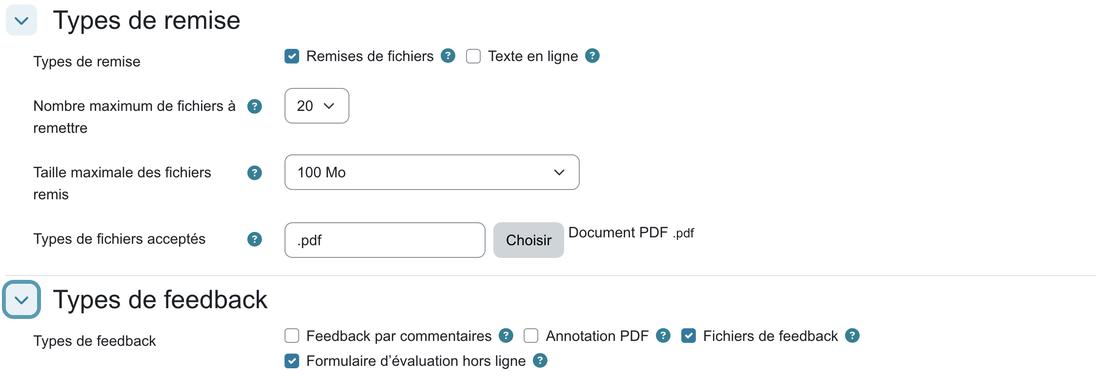
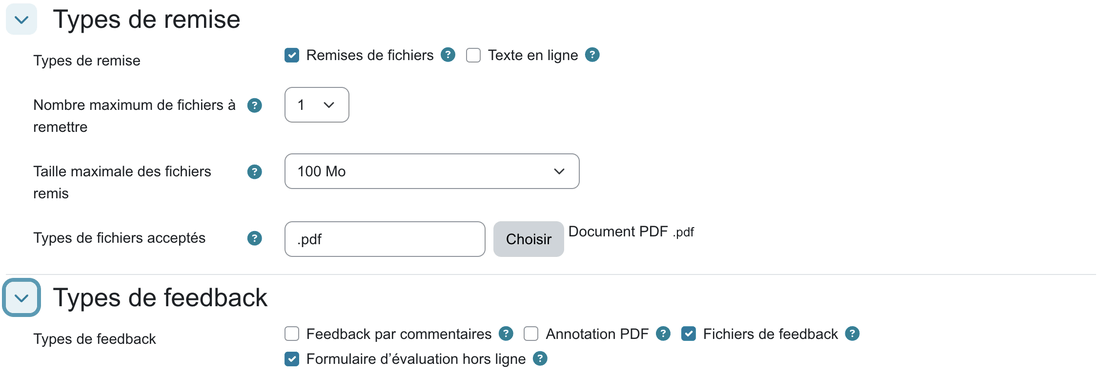
Show one file to hand in on the Moodle screenshot of the guide

diff --git a/services/webapp/ng/src/assets/guide/01-moodle.md b/services/webapp/ng/src/assets/guide/01-moodle.md
@@ -15,7 +15,7 @@ Dans votre cours : **Mode d'édition**, puis **Ajouter une activité ou ressourc
 | Généraux | Nom du devoir | par ex. « Examen final » | – |
 | Disponibilité | Autoriser la remise dès le, Date limite | cas A : la fenêtre de dépôt ; cas B : sans importance | – |
 | Types de remise | Remises de fichiers | cas A : **coché** ; cas B : décoché | cas A : les étudiants déposent leur copie |
-| Types de remise | Nombre maximum de fichiers à remettre | **1** de préférence | rmn traite chaque PDF comme une copie : un étudiant qui dépose deux fichiers aurait deux copies |
+| Types de remise | Nombre maximum de fichiers à remettre | **1** | rmn traite chaque PDF comme une copie : un étudiant qui dépose deux fichiers aurait deux copies |
 | Types de remise | Types de fichiers acceptés | **.pdf** (**Choisir** → Fichiers document → Document PDF) | rmn ne lit que des PDF |
 | Types de feedback | Fichiers de feedback | **coché** | pour renvoyer à chaque étudiant sa copie corrigée |
 | Types de feedback | Formulaire d'évaluation hors ligne | **coché** | c'est le csv que rmn lit et remplit |
@@ -26,7 +26,7 @@ Dans votre cours : **Mode d'édition**, puis **Ajouter une activité ou ressourc
 | Note | Utiliser les flux d'évaluation | **Non** | les notes importées sont alors directement celles du devoir |
 | Réglages courants | Mode de groupe | au choix | une colonne « Groupe » du csv sert à trier les copies par groupe |
 
-![Types de remise et types de feedback (ici jusqu'à 20 fichiers : 1 est préférable)](img/moodle-remise-feedback.png)
+![Types de remise et types de feedback](img/moodle-remise-feedback.png)
 
 Pour n'accepter que des PDF, **Choisir** ouvre la liste des types de fichiers : dépliez **Fichiers document** et cochez **Document PDF**.
 
